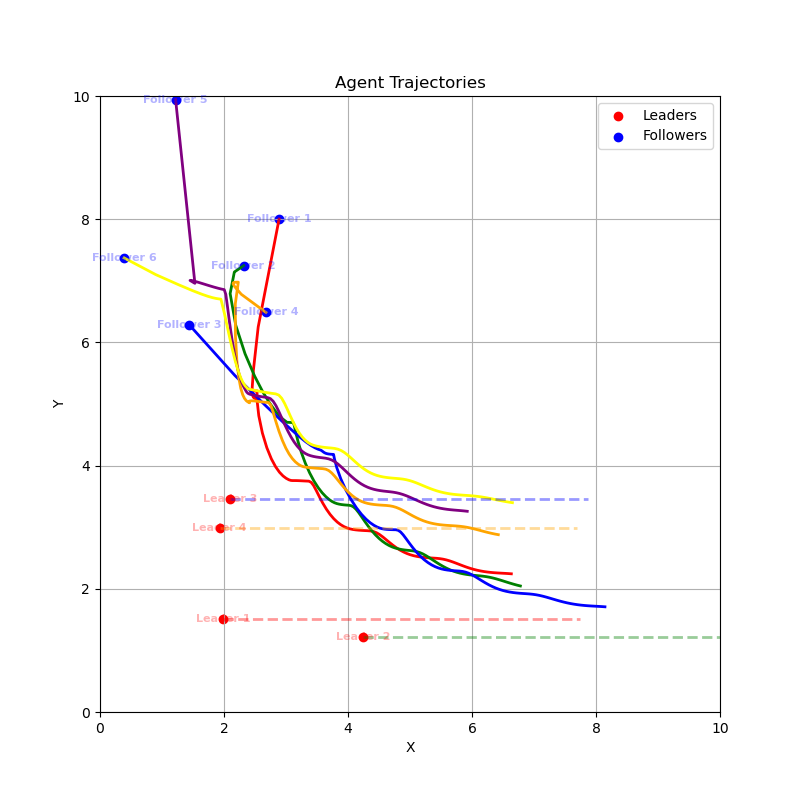
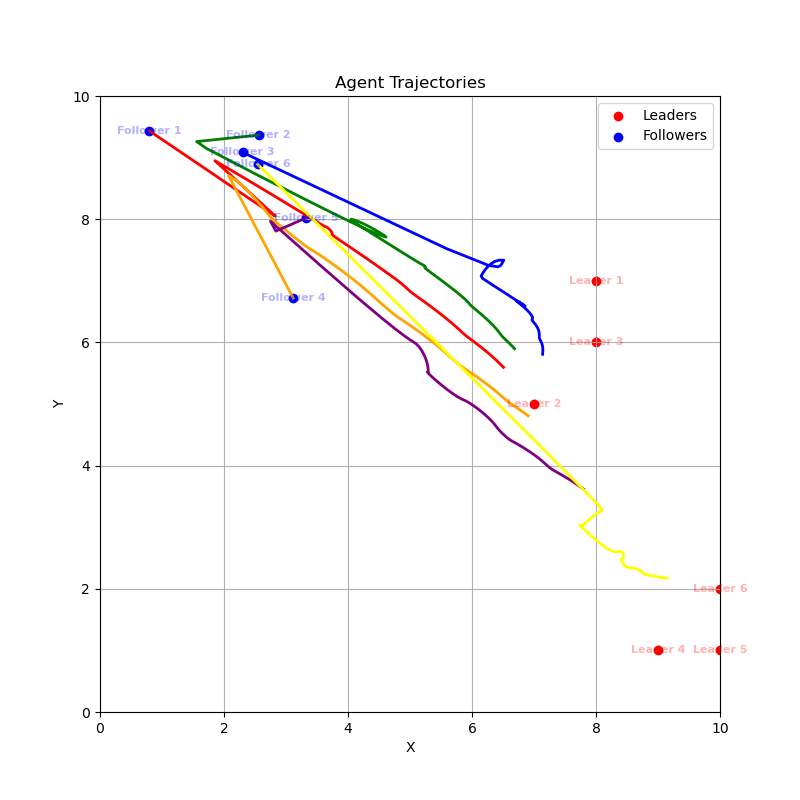
add projection file

diff --git a/containment/containment08投影法.py b/containment/containment08投影法.py
@@ -42,12 +42,18 @@ class FollowerAgent(Agent):
 
     def update_velocity(self, a, b, agents, leader_agents):
         neighbor_positions = [agents[i].delayposition for i in self.neighbors]
-        leader_positions = [leader_agents[i].delayposition for i in self.leader_indices]
-        polygon = [leader_agents[i].delayposition for i in range(num_leaders)]
+        polygon1 = [leader_agents[i].delayposition for i in self.leader_indices]
+        if len(polygon1) < 3:
+            polygon1 = [leader_agents[i].delayposition for i in range(num_leaders)]
+        polygon = [tuple(row) for row in polygon1]
+        point= self.position
         distance, closest_point = shortest_distance_to_polygon_edge(point, polygon)
-
+        closest_point = np.array(closest_point)
+        # print(point)
+        # print(polygon)
+        # print(closest_point)
         self.velocity = - a * (len(self.neighbors) * self.position - np.sum(neighbor_positions, axis=0)) 
-        self.velocity = self.velocity - b * (len(self.leader_indices) * self.position - np.sum(closest_point, axis=0))
+        self.velocity = self.velocity - b * len(self.leader_indices) *  (self.position - closest_point)
 
         leader_velocity = [leader_agents[i].velocity for i in self.leader_indices]
         self.velocity = self.velocity + 1 * np.sum(leader_velocity, axis=0)
@@ -59,21 +65,21 @@ class LeaderAgent(Agent):
         self.index = index
     # 领导者轨迹
     def track_leader(self,iter):
-        # aa = 0
-        # bb = 0  # 领导者不动
-        aa = (10-np.max(leader_positions[:,0]))/t_sum   # 走直线 走斜线 走sin线
-        bb = 0 #走直线
+        aa = 0
+        bb = 0  # 领导者不动
+        # aa = (10-np.max(leader_positions[:,0]))/t_sum   # 走直线 走斜线 走sin线
+        # bb = 0 #走直线
         # bb = (10-np.max(leader_positions[:,1]))/t_sum    # 走斜线
         # bb = 2*self.position[1] *np.cos(2*iter/t_sum)                # 走sin线
         self.velocity = np.array([aa, bb])
 
 num_followers = 6
-num_leaders = 4
+num_leaders = 6
 # num_leaders = 6
 a = 1
 b = 1
 follower_topology = {0: [1, 3], 1: [0, 2], 2: [1], 3: [0, 4], 4: [3, 5], 5: [4]}
-leader_topology = {0: [0], 1: [2], 2: [5], 3: [3], 4: [], 5: []}
+leader_topology = {0: [2], 1: [2], 2: [2], 3: [5], 4: [5], 5: [5]}
 # leader_topology = {0: [0], 1: [1], 2: [2], 3: [3], 4: [4], 5: [5]}
 
 t_sum = 20
@@ -82,13 +88,19 @@ deltat = t_sum/num_iterations
 t_delay = 0.35
 linjie = 8*int(np.floor(t_delay/deltat))+1
 # 每个机器人时滞的步长
-tau_follower = [linjie, linjie, linjie, linjie, linjie, linjie]
+tau_follower =  [linjie, linjie, linjie, linjie, linjie, linjie]
 tau_leader =  [1,1,1,1,1,1]
 # [1,2,3,4,1,2] [5,5,5,5,5,5] [4,4,4,4,4,4] [3,3,3,3,3,3] [2,2,2,2,2,2] [1,1,1,1,1,1] # 
 # [1,2,3,1,1,2]
 
 
 leader_positions = 0.5 * np.ones([num_leaders, 2]) + 4 * np.random.rand(num_leaders, 2)
+leader_positions = np.array([[8.0, 7.0],
+                            [7.0, 5.0],
+                            [8.0, 6.0],
+                            [9.0, 1.0],
+                            [10.0, 1.0],
+                            [10.0, 2.0]])
 # follower_positions = 10 * np.random.rand(num_followers, 2)
 # follower_positions=6*np.ones([num_followers, 2]) + 4 * np.random.rand(num_followers, 2)
 follower_positions=np.array([[0, 6],
